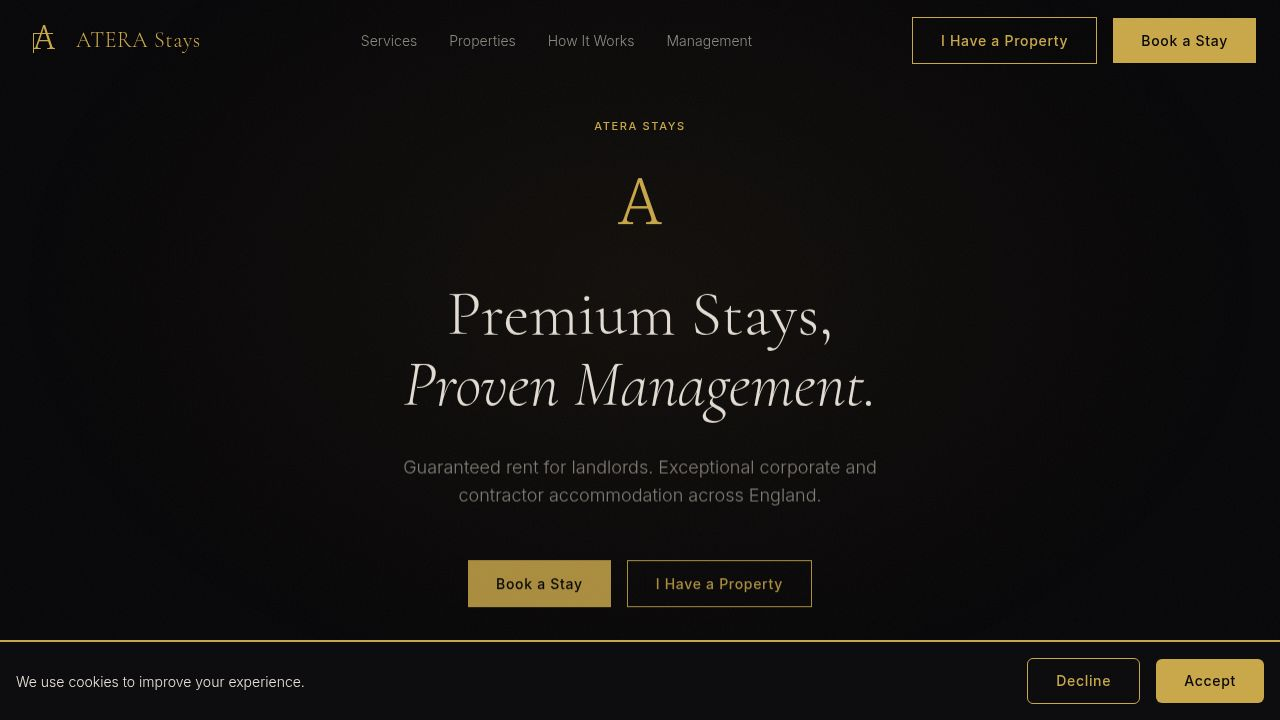
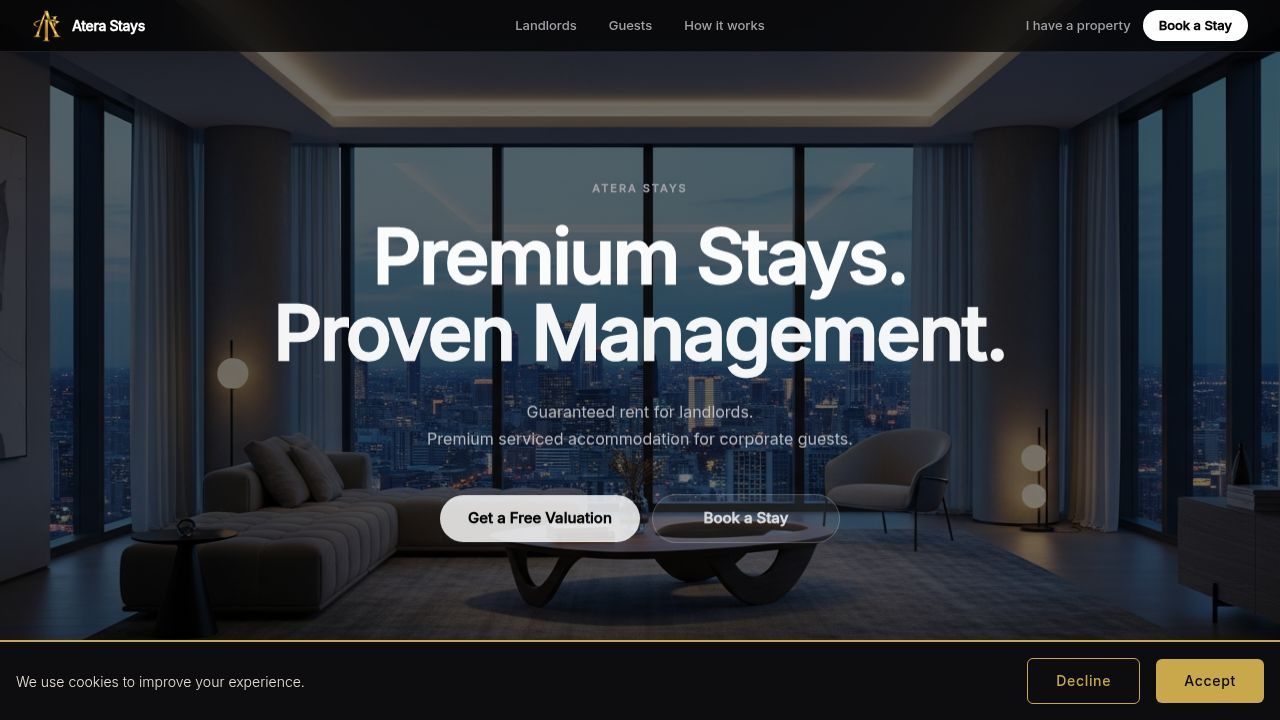
Fix Hub Access Control: restore strict hub_admins gate (Task #7)
Problem:
The previous fix (Task progress) replaced the read-only hub_admins check
with `ensureAdmin()` which automatically upserted any authenticated user
into hub_admins and always returned true. This meant any Supabase account
holder could access all internal Hub pages (Contracts, Scripts, Onboarding,
Settings) regardless of whether they were explicitly authorized.

Fix applied (artifacts/atera-platform/src/lib/useAuth.tsx):
- Removed `ensureAdmin()` entirely
- Restored `checkAdminStatus()` as a strict read-only SELECT against hub_admins
- The hub_admins self-read RLS policy allows each user to see their own row,
  so legitimate admins get data back; non-admins get null
- Errors now fail CLOSED (return false) instead of granting access
- HubLayout's existing !isAdmin branch blocks non-admin authenticated users
  and shows "Your account does not have access to the Hub" with a sign-out button

Security posture after fix:
- Client-side gate: only hub_admins table members can access /hub/*
- Server-side gate: RLS policies on all hub tables use is_hub_admin() SECURITY
  DEFINER function — these remain unchanged and provide defence-in-depth
- Non-admin authenticated users are blocked at both the React router level
  and the database level
- Bootstrap: admins must be inserted via Supabase dashboard (documented in
  supabase-setup.sql BOOTSTRAP comment)

No schema changes required. Full workflow restart applied to clear HMR cache.

diff --git a/artifacts/atera-platform/src/lib/useAuth.tsx b/artifacts/atera-platform/src/lib/useAuth.tsx
@@ -13,19 +13,21 @@ interface AuthContextType {
 
 const AuthContext = createContext<AuthContextType | null>(null);
 
-async function ensureAdmin(userId: string | undefined): Promise<boolean> {
+async function checkAdminStatus(userId: string | undefined): Promise<boolean> {
   if (!userId) return false;
-  // Any successfully authenticated Supabase user gets hub access.
-  // We upsert into hub_admins so the table still acts as an audit log.
-  const { error } = await supabase
+  // Read-only check: the hub_admins self-read RLS policy allows each user
+  // to see their own row. Only explicitly listed admins will get a result.
+  // Fail closed on any error so non-admins are never accidentally let in.
+  const { data, error } = await supabase
     .from("hub_admins")
-    .upsert({ user_id: userId }, { onConflict: "user_id" });
-  // If the upsert fails (e.g. table doesn't exist yet), still allow access
-  // so the user isn't permanently locked out during setup.
+    .select("user_id")
+    .eq("user_id", userId)
+    .maybeSingle();
   if (error) {
-    console.warn("hub_admins upsert failed, granting access anyway:", error.message);
+    console.warn("hub_admins check failed:", error.message);
+    return false;
   }
-  return true;
+  return data !== null;
 }
 
 export function AuthProvider({ children }: { children: ReactNode }) {
@@ -39,14 +41,14 @@ export function AuthProvider({ children }: { children: ReactNode }) {
       const currentSession = data.session;
       setSession(currentSession);
       setUser(currentSession?.user ?? null);
-      setIsAdmin(await ensureAdmin(currentSession?.user?.id));
+      setIsAdmin(await checkAdminStatus(currentSession?.user?.id));
       setLoading(false);
     });
 
     const { data: { subscription } } = supabase.auth.onAuthStateChange(async (_event, session) => {
       setSession(session);
       setUser(session?.user ?? null);
-      setIsAdmin(await ensureAdmin(session?.user?.id));
+      setIsAdmin(await checkAdminStatus(session?.user?.id));
     });
 
     return () => subscription.unsubscribe();